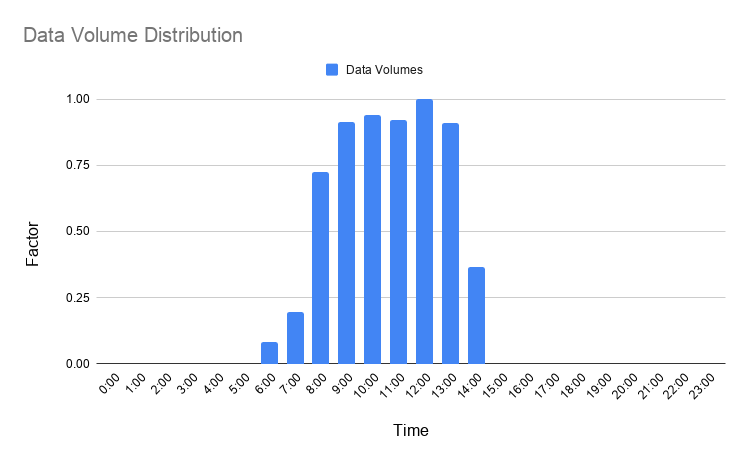
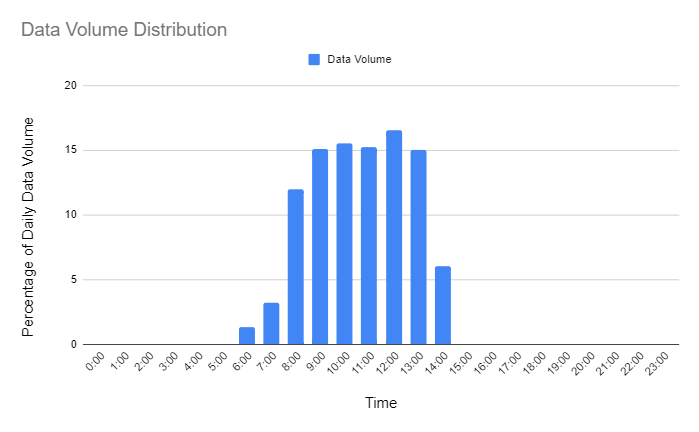
distributed RDBs, data volume distribution

diff --git a/whitepaper.md b/whitepaper.md
@@ -835,15 +835,18 @@ To determine how much cost savings our cluster of RDBs can make we will deploy a
 
 First we just want to see the cluster in action so we can see how it behaves.
 To do this we will run the cluster with `t3a.micro` instances.
-These are only 1GB in size so we should see the cluster scaling out quite quickly.
 
-The market will not generate data evenly throughout the day in the hypothetical example we used in the [Auto Scaling Section](#auto-scaling) above.
-Generally the data volumes will be highly concentrated while the markets are open and quite sparse otherwise.
-To simulate this as closely as possible we will generate data in volumes with the distribution below.
+In the [Auto Scaling the RDB](#auto-scaling-the-rdb) section above, data is distributed evenly throughout the day.
+This will not be the case in most of our systems as data volumes will generally be highly concentrated between market open and close.
+To simulate this as closely as possible we will generate data following the distribution below.
 
 | ![Data Volume Distribution](ref/img/SimDataVolumes.png) |
 |---|
 | Figure 2.1: Simulation Data Volume Distribution |
+
+In this simulation we will aim to send in 6GB of data of mock trade and quote data.
+The peak data volume will be almost 1GB of data per hour (15% of the daily data) .
+The `t3a.micro` instances only have 1GB of RAM so we should see the cluster scaling out quite quickly while markets are open.
 
 The behavior of the cluster was monitored using Cloudwatch metrics.
 Each RDB server published the results of the Linux `free` command.
@@ -933,7 +936,7 @@ These clusters all had used different instance types with capacities of 2, 4, 8,
 |---|
 | Figure 3.1: t3a Instance Types Used for Cost Efficiency Comparison |
 
-As in the first simulation, data volumes were distributed in the pattern shown in Figure 2.1 in order to simulate a day in the markets.
+As in the first simulation the data was distributed in the pattern shown in Figure 2.1 in order to simulate a day in the markets.
 However, in this simulation we aimed to send in around 16GB of data to match the total capacity of one `t3a.xlarge` (the largest instance type of the clusters).
 `.sub.i` was published from each of the live RDBs allowing us to plot the `upd` message throughput.
 
@@ -1103,7 +1106,17 @@ If we were to write down to disk every hour, we could also scale in the number o
 
 Options for how to set up an intra-day write-down solution have been discussed in a previous whitepaper by Colm McCarthy, [Intraday writedown solutions](https://code.kx.com/v2/wp/intraday-writedown).
 
+#### Querying Distributed RDBs
 
+This solution has one obvious difference to a regular kdb+ system in that there are multiple RDB servers.
+User queries will need to be parsed and routed to each one to ensure the data can be retrieved effectively.
+Engineering a solution for this is beyond the scope of this paper, but it may be tackled in the future.
+
+Once a gateway process is set up distributed RDBs could offer some advantages over a regular RDB:
+
+- RDBs can be filtered out by the gateway pre-query based on which data sets they are holding.
+- Each RDB will be holding a fraction of the day's data, decreasing query memory and duration.
+- Queries across multiple RDBs can be done in parallel.
 
 ## Conclusion
 
